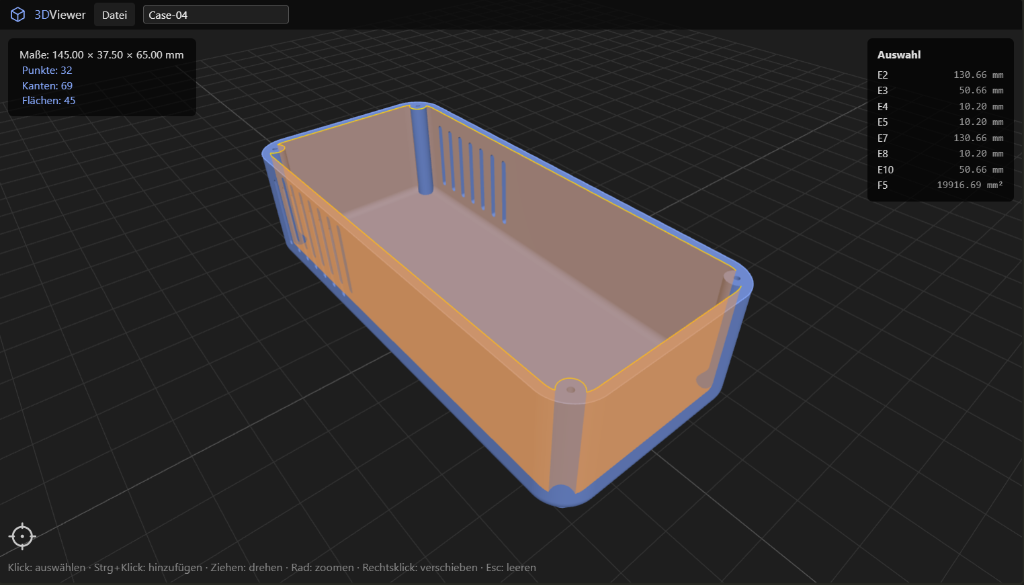
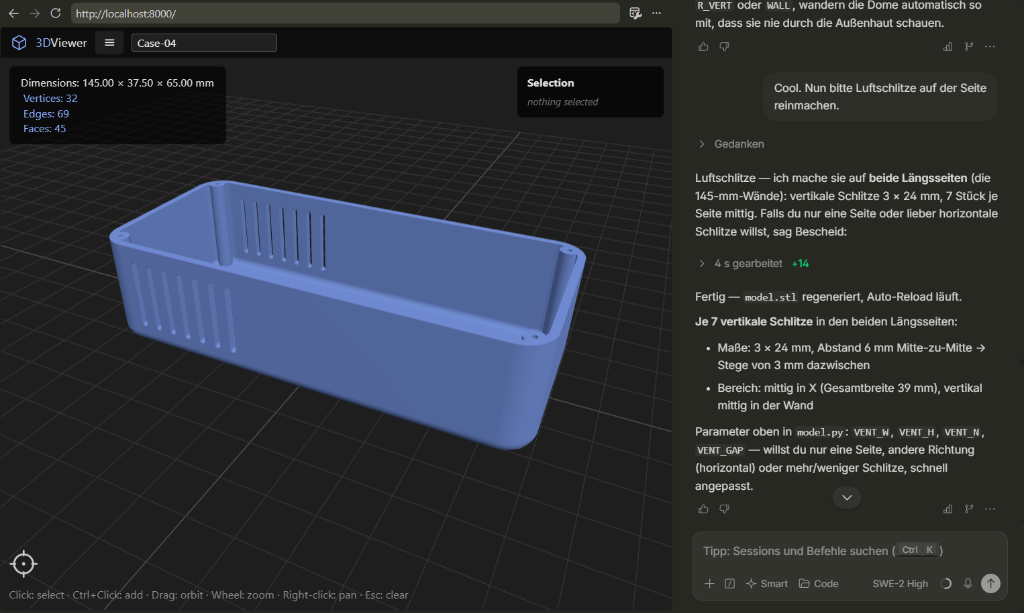
Update README screenshots

diff --git a/README.md b/README.md
@@ -13,15 +13,16 @@ which features you mean. See [`AGENTS.md`](AGENTS.md) and
 
 ## Screenshots
 
-![Parametric case model with edge & face selection](docs/screenshot-case.png)
+![Parametric case model, driven by an AI agent in the chat](docs/screenshot-case.png)
 
-*Parametric case model — edges and faces selected, measurements shown
-in the panel on the right.*
+*Parametric case model — designed and iterated live with an AI agent.*
 
 ![Organically generated dragon head](docs/screenshot-dragon.png)
 
-*Organic model — a dragon head generated by an implicit SDF field +
-marching cubes (`examples/dragon.py`).*
+*It can do organic shapes too — this dragon head was generated by an
+implicit SDF field + marching cubes (`examples/dragon.py`). Just don't
+expect sculpting-tool quality: mechanical/parametric work is where it
+shines.*
 
 ## Quick start
 
